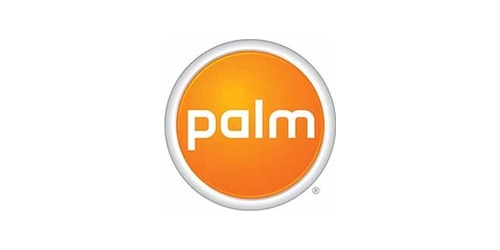
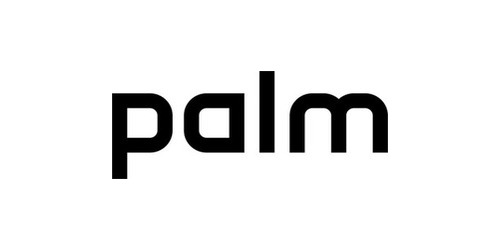
Add HP, Palm and OSBC to Select collaborators
Confirmed with Ibrahim first: HP and Palm already appear in the homepage
career row as past employers, and this adds them to Select collaborators as
well, for advisory relationships held separately from that employment.
Distinct from the pattern set with OCF, which is homepage-only because that
relationship is a role, not an engagement.

HP and Palm reuse the logo files already normalised for the homepage row
rather than new uploads. Re-running them through normalize-logo.py is
idempotent for HP (3-byte diff, recompression only, same 23.8% area it
already had) but not for Palm, and that difference is worth noting on its
own. The collaborators-row copy of Palm had never been updated when the
homepage one moved to the current black wordmark a few commits back --
nothing referenced it, so the mismatch was invisible until this row started
using it. This commit fixes that stale file as a side effect of adding it
here.

OSBC is new artwork. All three land at 23.8% ink area, matching the row's
established band. Alphabetical placement follows the existing rule with no
ambiguity: HP files under H before Huawei ('hp' < 'huawei'), and OSBC and
Palm both file under O/P between OpenText and Samsung NEXT.

Row spread holds at 1.01x across 19 collaborator logos and 30 total.

Built on the still-open branch for PR #8 rather than a fresh one, since that
PR has not merged yet and pushing here updates it directly.

Claude-Session: https://claude.ai/code/session_0159HmjWmUoF7pq5XmRK5qQj

Changed region(s): [[0.21, 0.14, 0.78, 0.868]]

diff --git a/advisory/index.html b/advisory/index.html
@@ -215,11 +215,14 @@
         <img loading="lazy" src="/assets/img/collaborators/fenwick.jpg" alt="Fenwick">
         <img loading="lazy" src="/assets/img/collaborators/fossid.jpg" alt="FOSSID">
         <img loading="lazy" src="/assets/img/collaborators/futurewei.jpg" alt="Futurewei">
+        <img loading="lazy" src="/assets/img/collaborators/hp.jpg" alt="HP">
         <img loading="lazy" src="/assets/img/collaborators/huawei.jpg" alt="Huawei">
         <img loading="lazy" src="/assets/img/collaborators/jina-ai.jpg" alt="Jina AI">
         <img loading="lazy" src="/assets/img/collaborators/linux-foundation.jpg" alt="The Linux Foundation">
         <img loading="lazy" src="/assets/img/collaborators/openforum-europe.jpg" alt="OpenForum Europe">
         <img loading="lazy" src="/assets/img/collaborators/opentext.jpg" alt="OpenText">
+        <img loading="lazy" src="/assets/img/collaborators/osbc.jpg" alt="OSBC">
+        <img loading="lazy" src="/assets/img/collaborators/palm.jpg" alt="Palm">
         <img loading="lazy" src="/assets/img/collaborators/samsung-next.jpg" alt="Samsung NEXT">
         <img loading="lazy" src="/assets/img/collaborators/teqmine.jpg" alt="Teqmine">
         <img loading="lazy" src="/assets/img/collaborators/tidelift.jpg" alt="Tidelift">
